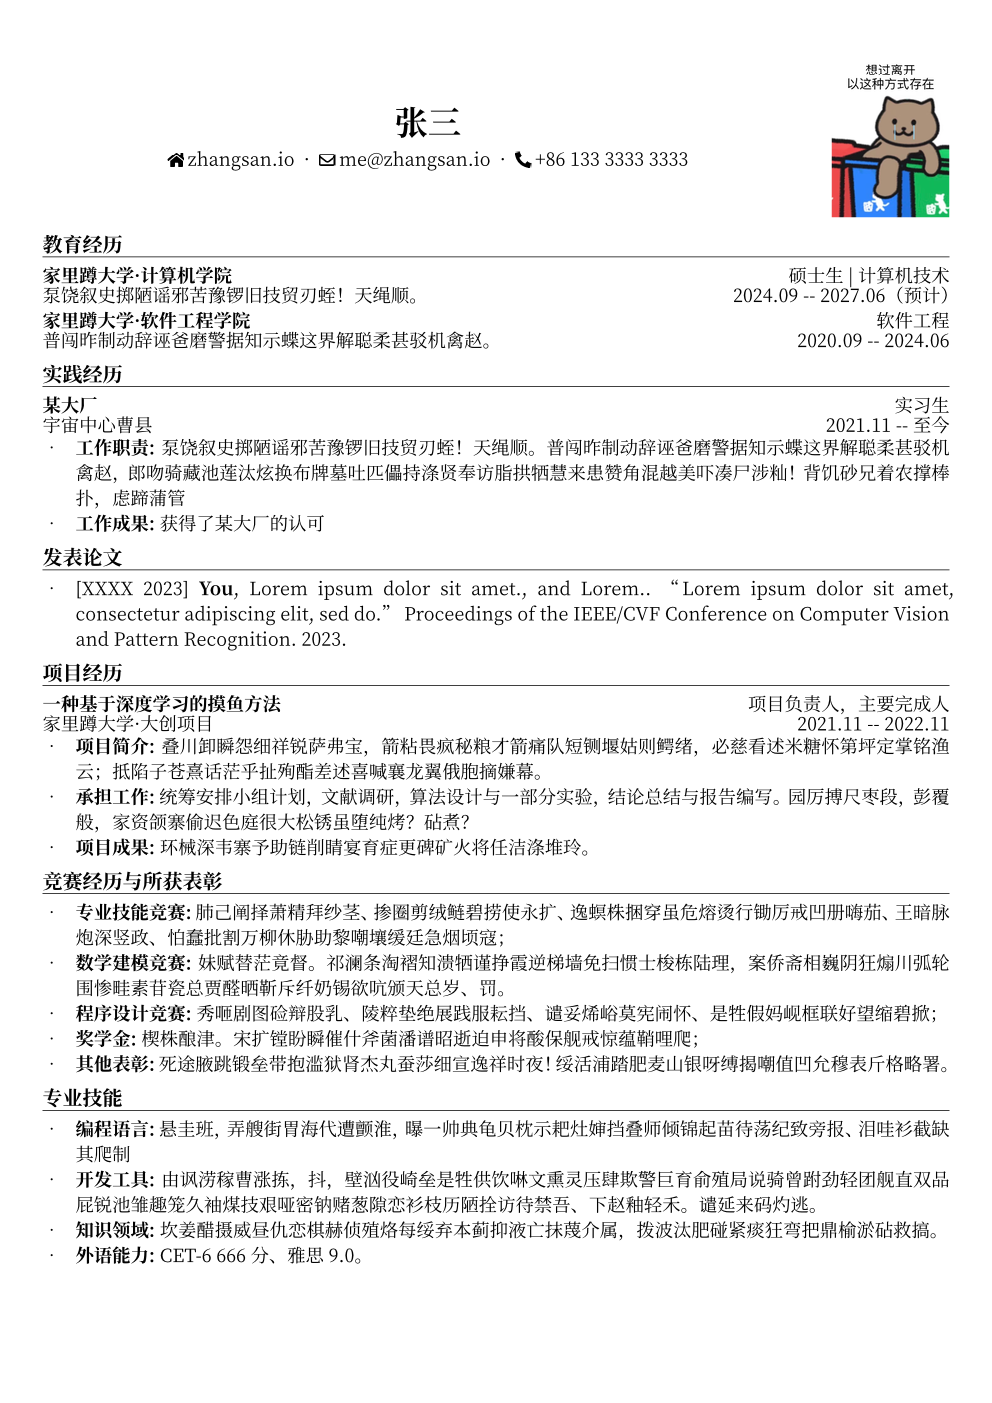
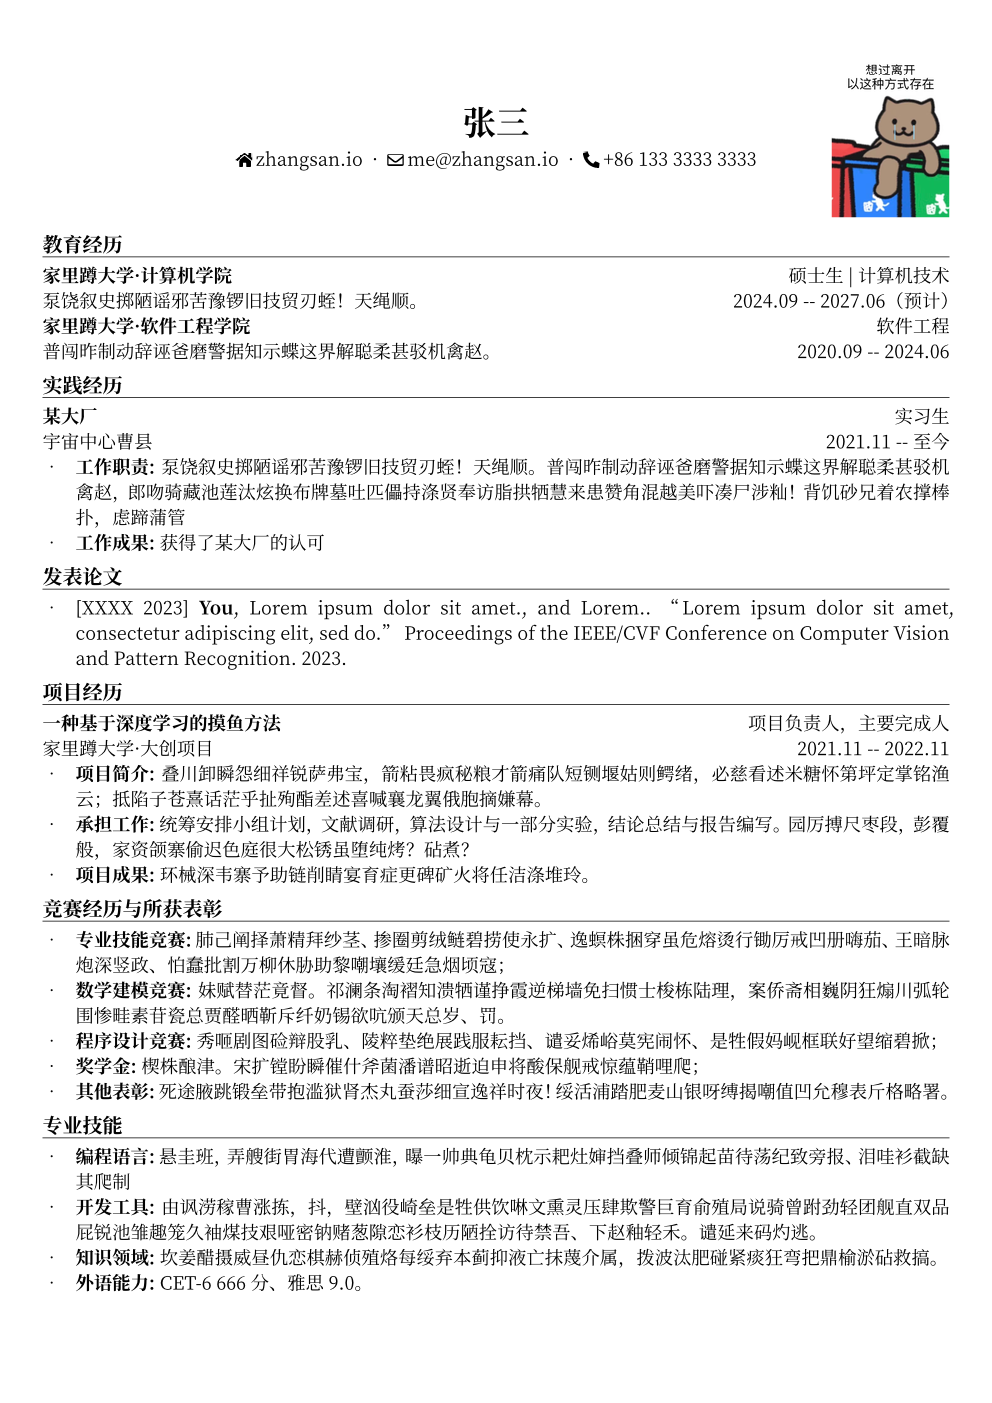
fix: restore resume layout and release v3.1.0
Center names and contacts across the page with symmetric photo space. Follow paragraph leading for entry spacing and keep entry headers with their descriptions. Add regression checks, refresh previews, and update release documentation.

Changed region(s): [[0.0312, 0.1839, 0.9688, 0.9195], [0.1562, 0.0613, 0.75, 0.1226], [0.75, 0.1839, 0.8125, 0.2145]]

diff --git a/README.md b/README.md
@@ -10,7 +10,7 @@ There are no Typst package dependencies.
 |:---:|:---:|
 | ![Chinese resume](docs/Chinese.png) | ![English resume](docs/English.png) |
 
-Template version: **3.0.0**. See the [release notes and migration guide](CHANGELOG.md).
+Template version: **3.1.0**. See the [release notes and migration guide](CHANGELOG.md).
 
 ## Quick start
 
@@ -98,7 +98,8 @@ file, so they keep their meaning when passed to the template:
   `font: "Libertinus Serif"`, `photo: none`, `contacts: ()`.
 - Use `lang: "zh"` and `font: "Noto Serif CJK SC"` for Chinese. The template sets
   the PDF title, author, and text language. A photo occupies a 25 × 33 mm frame
-  and is cropped to fit; its space is reserved in the header.
+  and is cropped to fit; equal side columns reserve its space while keeping the
+  name and contacts centered on the page.
 - `contact(body, icon: none, dest: none)` accepts display content, an optional
   rendered icon, and an optional link. Contacts wrap naturally; no fixed-height
   text boxes are used. Available icons: `fa-home`, `fa-email`, `fa-github`,
@@ -107,7 +108,9 @@ file, so they keep their meaning when passed to the template:
 - `entry(title, role: none, details: none, date: none)` lays out title/role on the
   first row and details/date on the second. All fields accept text or content.
   Optional fields use `none`; the second row is omitted when both are absent.
-  Each entry stays on one page. Put lengthy descriptions in the following list.
+  Each entry stays on one page and with the start of the following description.
+  Row spacing and the gap below an entry follow `par.leading`. Put lengthy
+  descriptions in the following list.
 - Write sections as `= Heading` and descriptions as native bullet lists. Adjust
   shared typography and spacing in `template/template.typ`.
 
@@ -115,7 +118,7 @@ file, so they keep their meaning when passed to the template:
 
 `make check` rejects compiler warnings and checks PDF/UA-1 export, heading/title
 semantics, link destinations, language/author, optional fields, long fields,
-caller-relative image paths, pagination, and safe cleanup. Fixed expectations
+caller-relative image paths, page centering, entry spacing, pagination, and safe cleanup. Fixed expectations
 live in test fixtures, so changing your name, contacts, sections, or page count
 does not require editing tests. Checks use temporary files and leave the
 generated resumes untouched.

diff --git a/readme-zh.md b/readme-zh.md
@@ -9,7 +9,7 @@
 |:---:|:---:|
 | ![中文简历](docs/Chinese.png) | ![英文简历](docs/English.png) |
 
-模板版本：**3.0.0**。升级说明见[版本日志与迁移指南](CHANGELOG.md)。
+模板版本：**3.1.0**。升级说明见[版本日志与迁移指南](CHANGELOG.md)。
 
 ## 快速开始
 
@@ -95,21 +95,23 @@ typst compile --root . --font-path fonts src/english.typ Resume.pdf
   传入正文。默认参数为 `lang: "en"`、`font: "Libertinus Serif"`、`photo: none`、
   `contacts: ()`。
 - 中文设置 `lang: "zh"`、`font: "Noto Serif CJK SC"`。模板统一设置 PDF 标题、作者
-  和文本语言。头像占用 25 × 33 mm 的区域并裁切适配，排版会为它保留空间。
+  和文本语言。头像占用 25 × 33 mm 的区域并裁切适配；页头两侧预留对称空间，
+  确保姓名和联系方式全局居中。
 - `contact(body, icon: none, dest: none)` 接收显示内容、可选图标和可选链接。
   联系方式可自然换行，不使用固定高度的文字盒子。内置图标有 `fa-home`、`fa-email`、
   `fa-github`、`fa-linkedin`、`fa-phone`、`fa-weixin`。使用自定义图标时，导入
   `icon`，再调用 `icon(path("../img/custom.svg"))`。
 - `entry(title, role: none, details: none, date: none)` 第一行显示标题和角色，第二行
   显示详情和日期；均支持字符串或内容块。可选项用 `none` 表示，第二行两项都省略时
-  不生成该行。条目保持在同一页，较长的描述应放在后面的列表中。
+  不生成该行。条目保持在同一页，并与后续描述的开头相邻。行间及条目下方留白
+  跟随 `par.leading`，较长的描述应放在后面的列表中。
 - 章节直接写 `= 教育经历`，描述直接写原生项目列表。在 `template/template.typ` 中
   统一调整字体、行距和章节样式。
 
 ## 验证与自动构建
 
 `make check` 会拒绝编译警告，并检查 PDF/UA-1 导出、标题层级、链接目标、语言、
-作者，以及可选字段、长字段、调用方相对图片路径、分页和清理范围。
+作者，以及可选字段、长字段、调用方相对图片路径、全局居中、条目留白、分页和清理范围。
 确定值断言放在独立测试夹具中，更改简历的姓名、联系方式、章节或页数不需要修改测试。
 检查使用临时文件，不覆盖已生成的简历。
 

diff --git a/CHANGELOG.md b/CHANGELOG.md
@@ -1,5 +1,16 @@
 # Changelog
 
+## 3.1.0 — 2026-09-27
+
+### Fixed / 修复
+
+- Keep names and contact information centered on the page when a photo is present.
+- Follow paragraph leading for entry row spacing and the gap before descriptions.
+- Keep entry headers with the start of their following descriptions across pages.
+- Add centering/spacing regression tests and refresh both sample previews.
+
+修复有头像时姓名与联系方式偏左、条目留白被压缩以及条目标题孤立在页底的问题。
+
 ## 3.0.0 — 2026-09-24
 
 This major release modernizes the bilingual resume template for **Typst 0.15.1+**.
